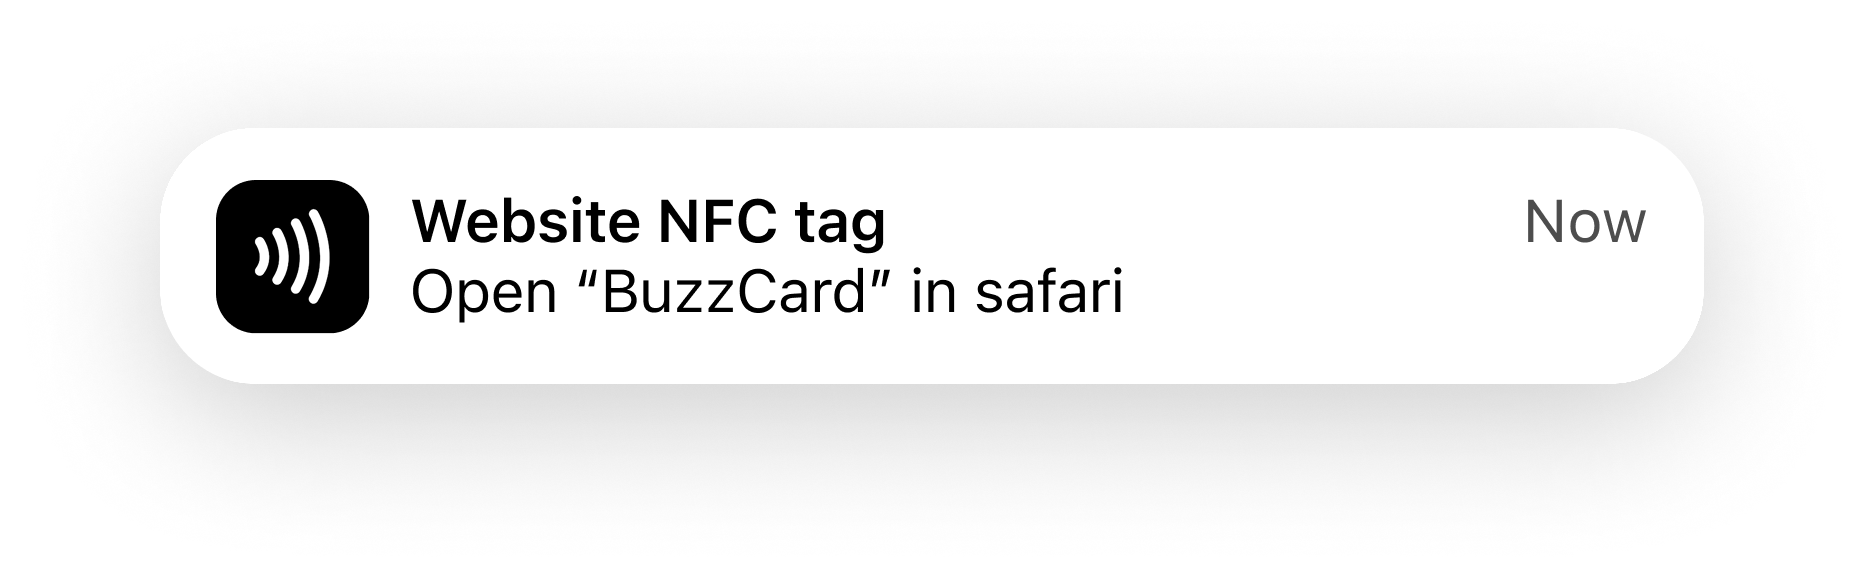
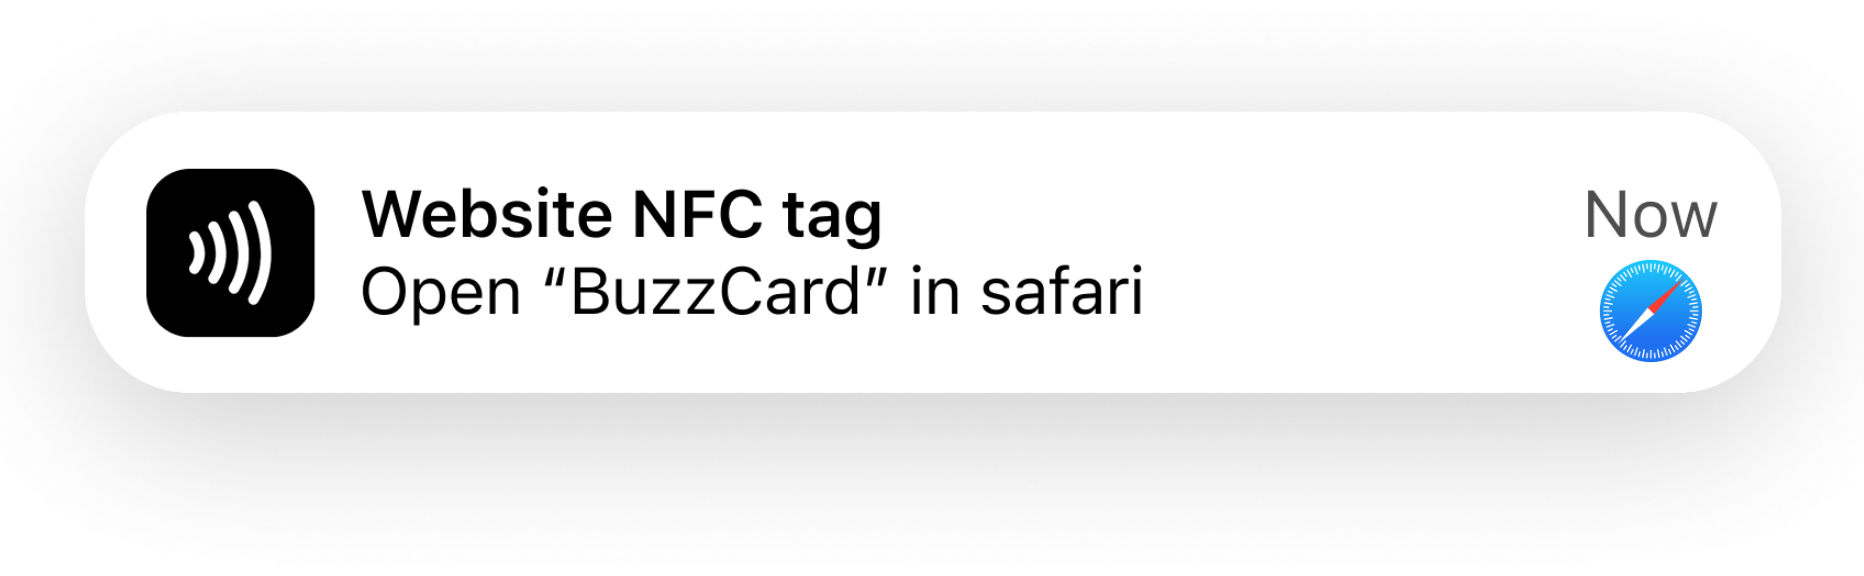
refactor: adjust notification vertical offset and update asset for HeroPhoneMockup

Changed region(s): [[0.0622, 0.2812, 0.6223, 0.5938], [0.0933, 0.3125, 0.9335, 0.6875]]

diff --git a/src/features/marketing/components/Hero/HeroPhoneMockup.jsx b/src/features/marketing/components/Hero/HeroPhoneMockup.jsx
@@ -159,7 +159,7 @@ export default function HeroPhoneMockup() {
         tl.to(
           notificationRef.current,
           {
-            y: 46,
+            y: 16,
             opacity: 1,
             scale: 1,
             duration: 5,
